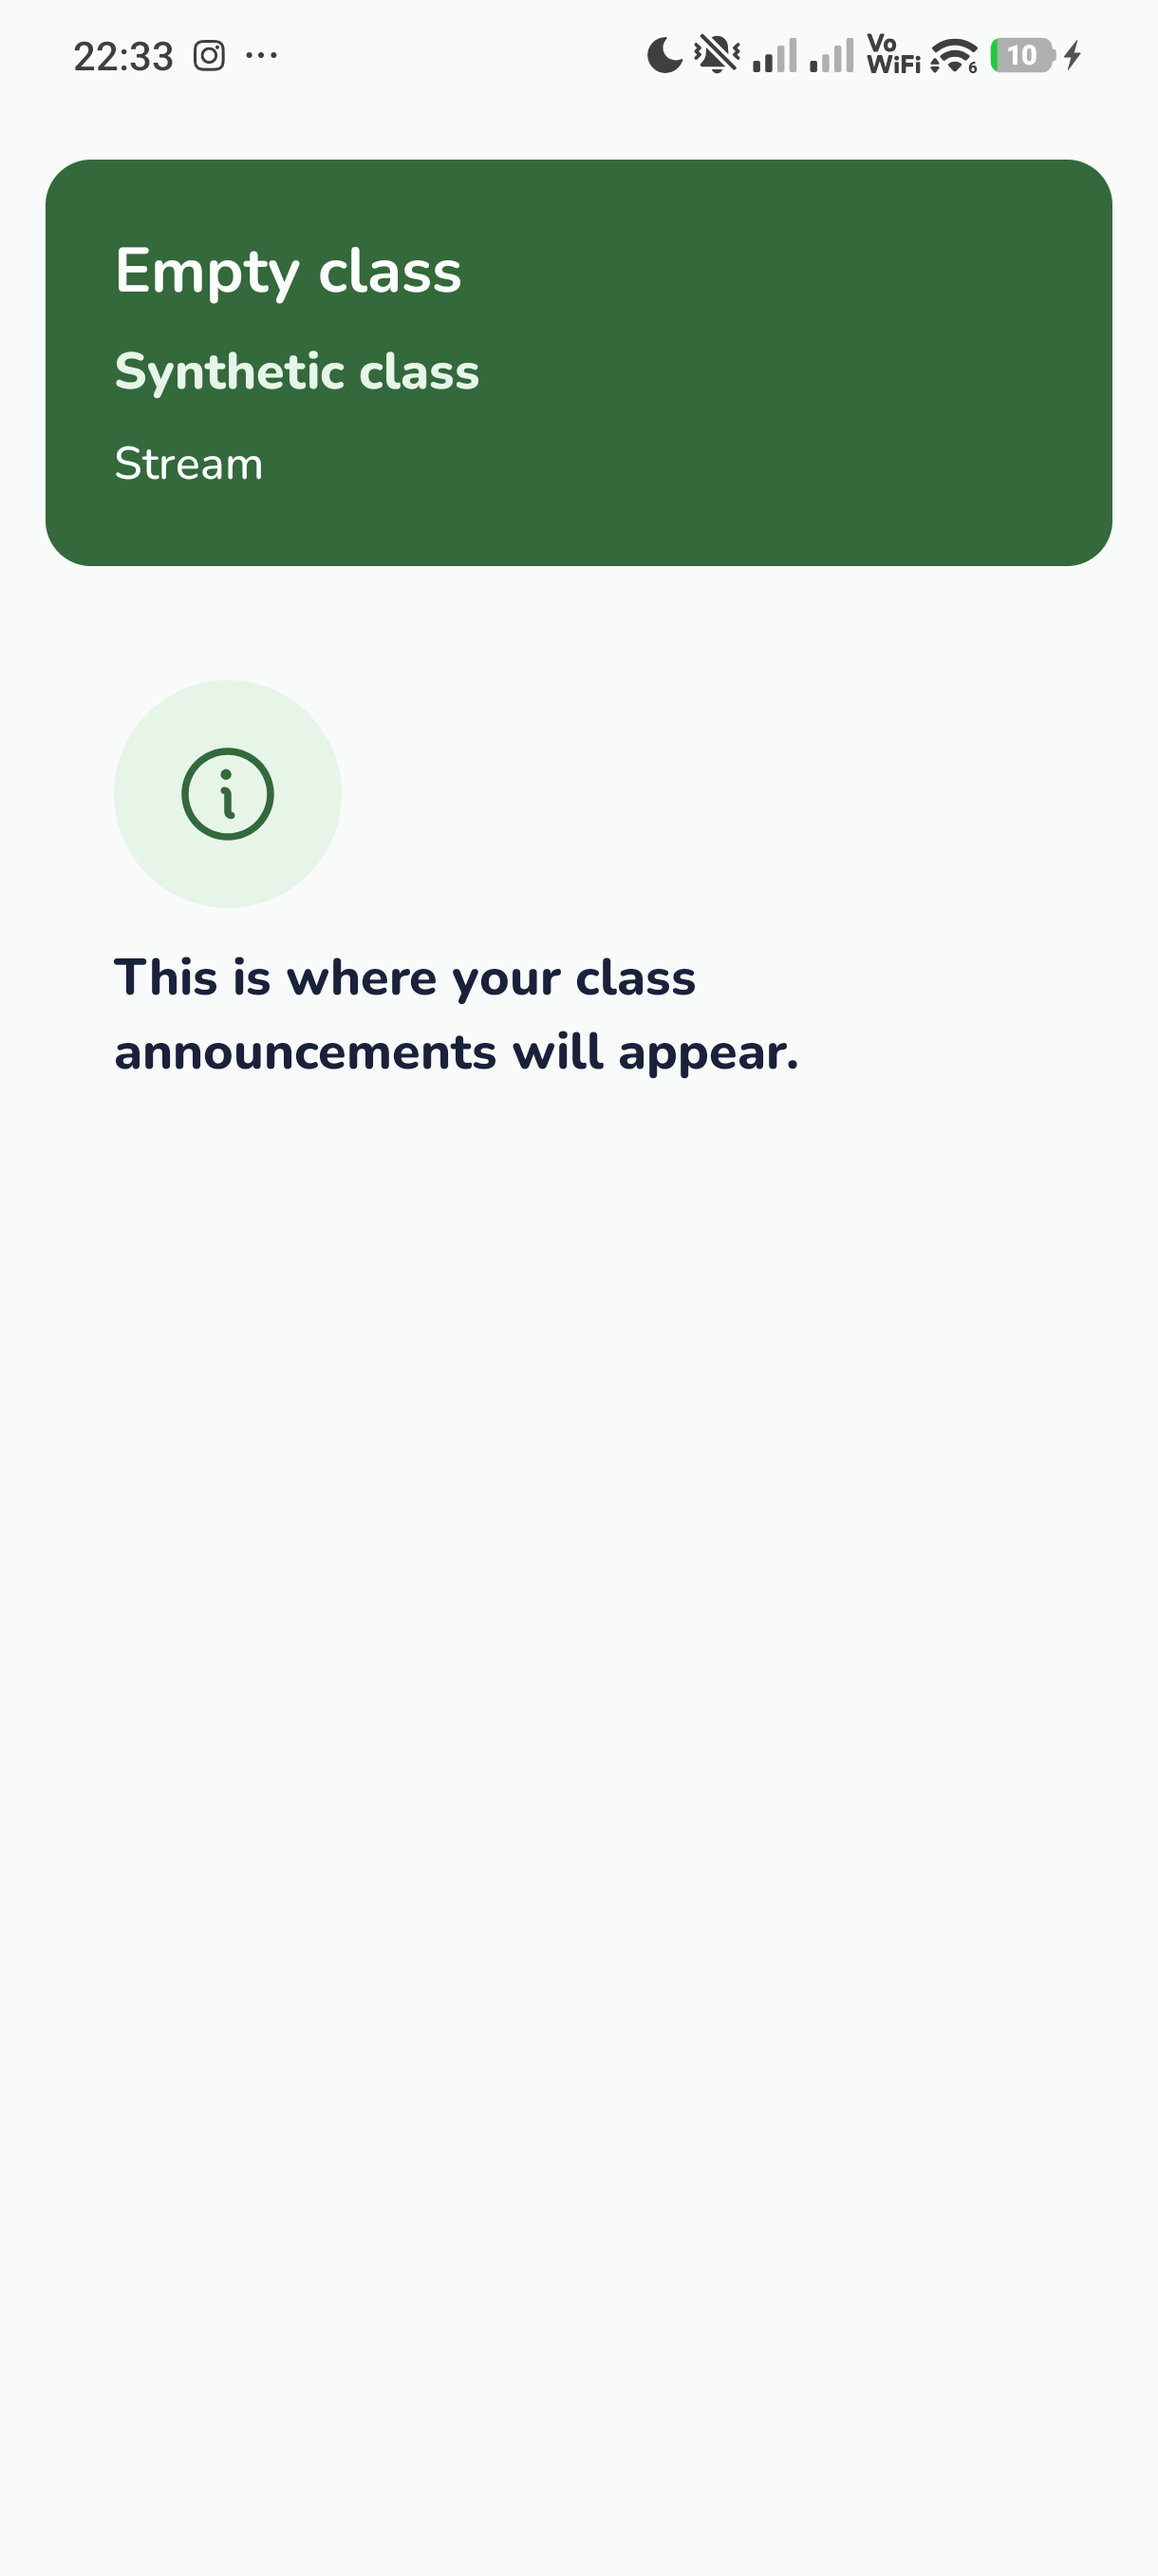
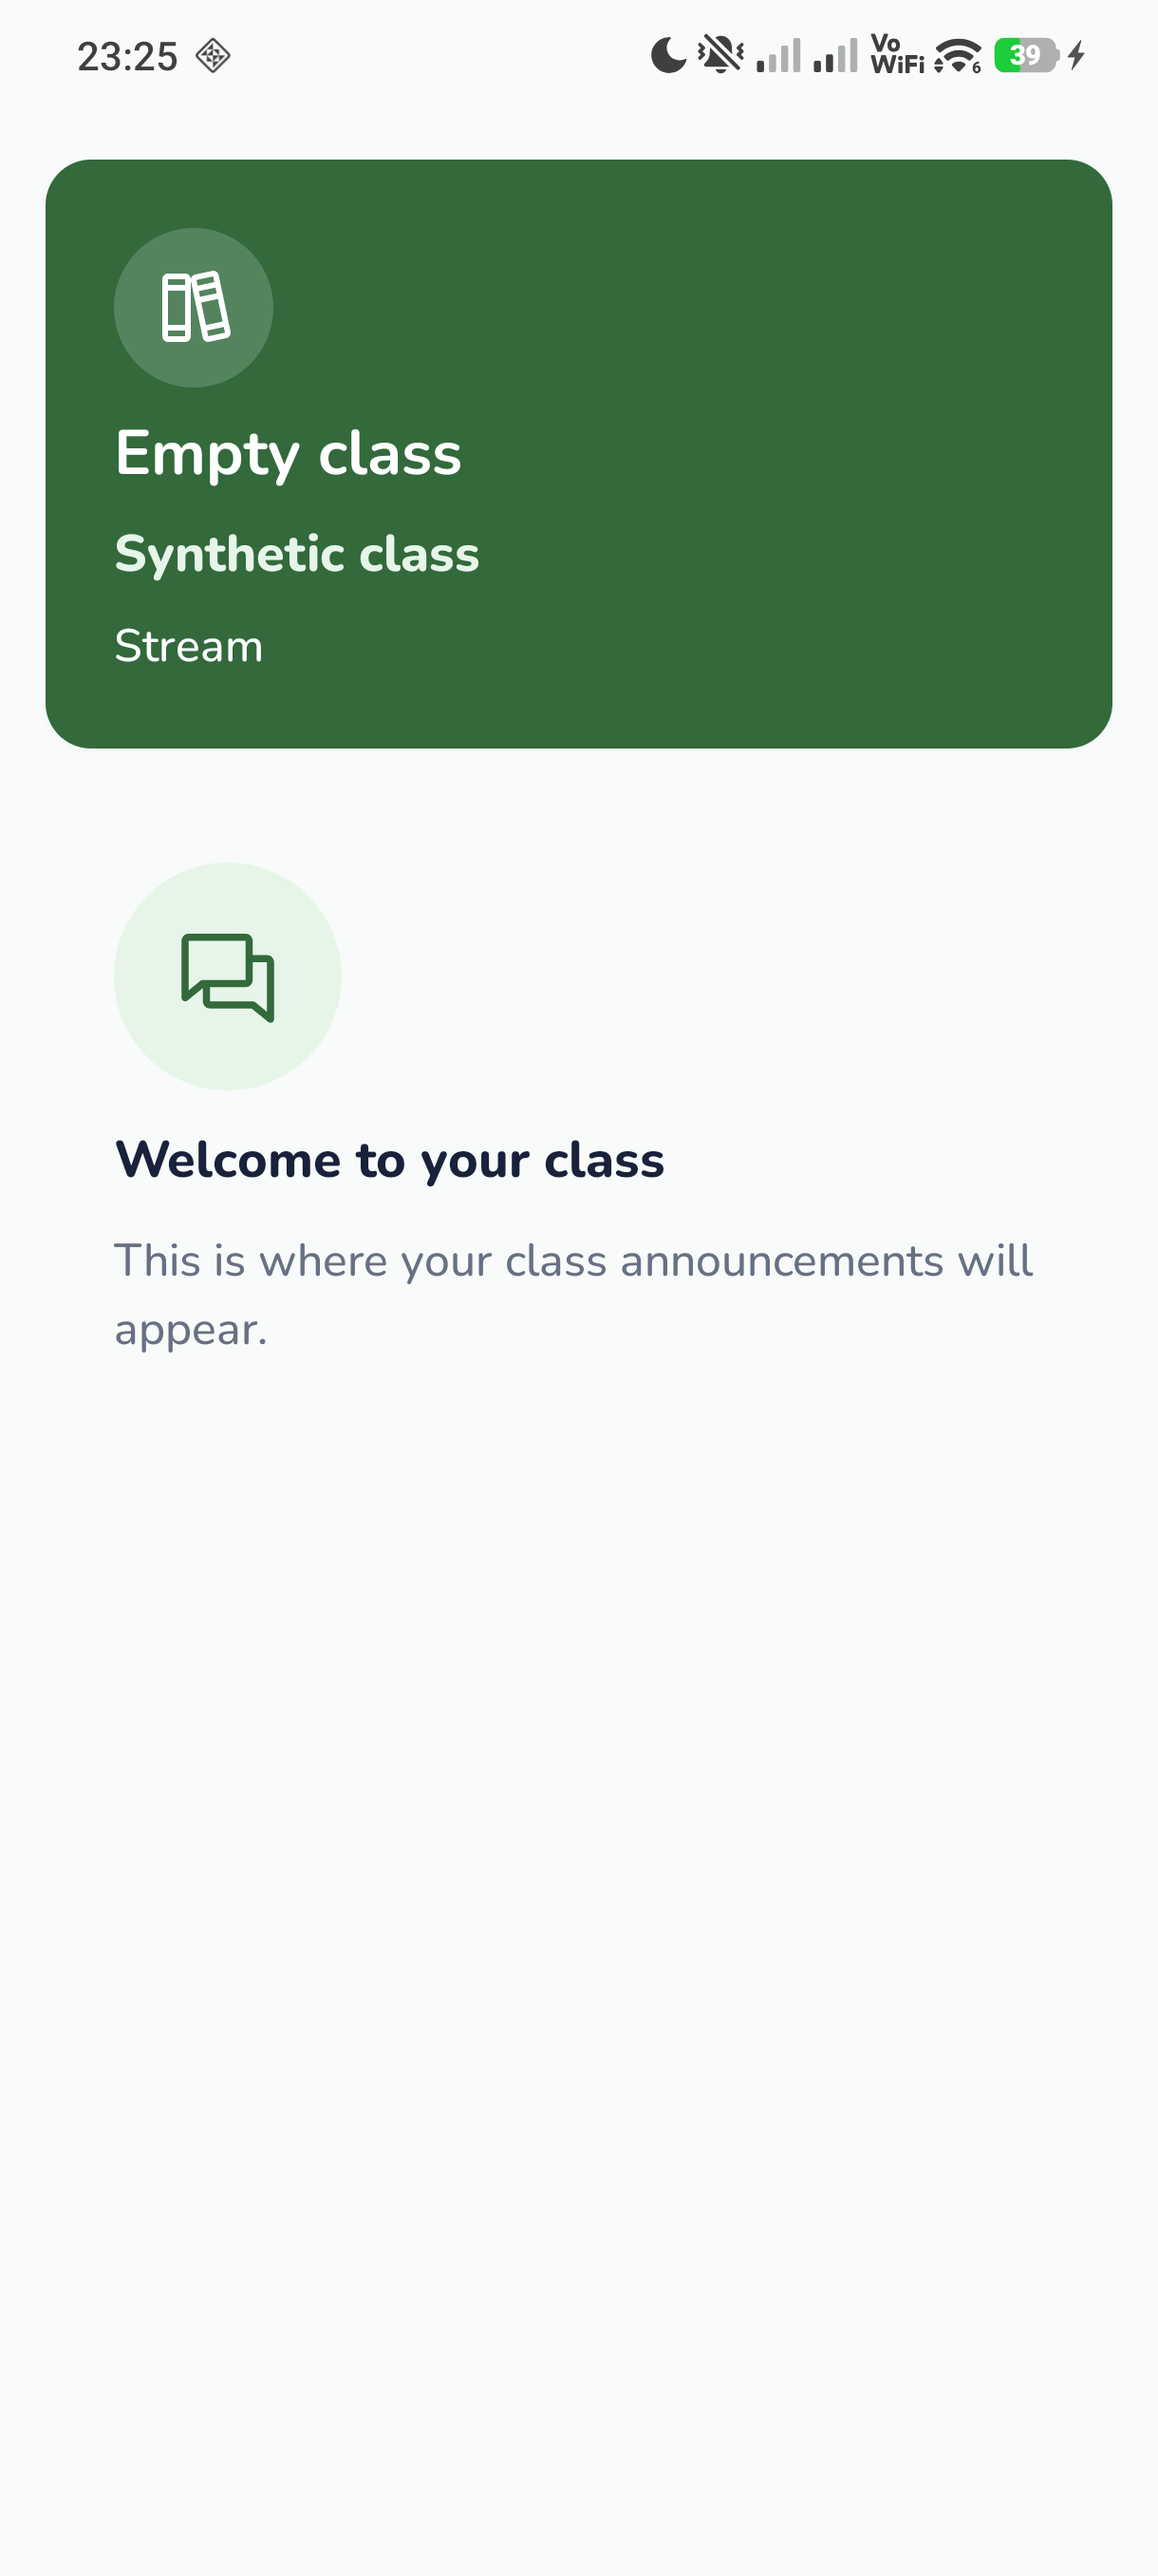
style(mobile): align reading screens with classroom design tokens

diff --git a/mobile/app/src/main/java/org/lara/app/ui/screens/stream/ClassroomLearningHost.kt b/mobile/app/src/main/java/org/lara/app/ui/screens/stream/ClassroomLearningHost.kt
@@ -1,6 +1,7 @@
 package org.lara.app.ui.screens.stream
 
 import androidx.compose.foundation.background
+import androidx.compose.foundation.BorderStroke
 import androidx.compose.foundation.layout.*
 import androidx.compose.foundation.lazy.LazyColumn
 import androidx.compose.foundation.lazy.items
@@ -46,7 +47,10 @@ fun ClassroomLearningHost(container: AppContainer, userId: String, destination: 
         if (fixedClassId == null) {
             var expanded by remember { mutableStateOf(false) }
             Box(Modifier.padding(horizontal = LaraSpacing.S4)) {
-                TextButton(onClick = { expanded = true }, modifier = Modifier.heightIn(min = MinTouchTarget)) {
+                OutlinedButton(onClick = { expanded = true }, modifier = Modifier.heightIn(min = MinTouchTarget),
+                    border = BorderStroke(1.dp, LaraColors.Border), shape = LaraShapes.medium) {
+                    Icon(painterResource(R.drawable.ic_books_regular), null, Modifier.size(20.dp))
+                    Spacer(Modifier.width(LaraSpacing.S2))
                     Text(stringResource(R.string.reading_choose_class, selected.name))
                 }
                 DropdownMenu(expanded = expanded, onDismissRequest = { expanded = false }, containerColor = LaraColors.Surface) {
@@ -84,8 +88,12 @@ private fun ClassFeed(container: AppContainer, userId: String, classroom: Classr
     LazyColumn(Modifier.fillMaxSize(), contentPadding = PaddingValues(LaraSpacing.S4),
         verticalArrangement = Arrangement.spacedBy(LaraSpacing.S4)) {
         item {
-            Surface(color = LaraColors.PrimaryDark, contentColor = LaraColors.Surface, shape = LaraShapes.large) {
+            Surface(modifier = Modifier.laraShadow(), color = LaraColors.PrimaryDark, contentColor = LaraColors.Surface, shape = LaraShapes.large) {
                 Column(Modifier.fillMaxWidth().padding(LaraSpacing.S6), verticalArrangement = Arrangement.spacedBy(LaraSpacing.S2)) {
+                    Surface(color = LaraColors.Surface.copy(alpha = 0.18f), shape = CircleShape) {
+                        Icon(painterResource(R.drawable.ic_books_regular), null,
+                            Modifier.padding(LaraSpacing.S3).size(32.dp), tint = LaraColors.Surface)
+                    }
                     Text(classroom.name, style = MaterialTheme.typography.headlineMedium)
                     Text(classroom.section, color = LaraColors.PrimaryLight, style = MaterialTheme.typography.titleMedium)
                     Text(stringResource(if (destination == ShellDestination.STREAM) R.string.nav_stream else R.string.nav_classwork))
@@ -105,8 +113,15 @@ private fun ClassFeed(container: AppContainer, userId: String, classroom: Classr
             val groups = handouts.groupBy { it.topicId }
             val ordered = topics.map { it.id }.filter { it in groups } + groups.keys.filter { id -> topics.none { it.id == id } }
             ordered.forEach { topicId ->
-                item(key = "topic-${topicId ?: "none"}") { Text(topics.find { it.id == topicId }?.name
-                    ?: stringResource(R.string.reading_handouts), style = MaterialTheme.typography.titleLarge) }
+                item(key = "topic-${topicId ?: "none"}") {
+                    Column(verticalArrangement = Arrangement.spacedBy(LaraSpacing.S3)) {
+                        Text(topics.find { it.id == topicId }?.name ?: stringResource(R.string.reading_handouts),
+                            style = MaterialTheme.typography.headlineMedium, color = LaraColors.PrimaryDark)
+                        Text(stringResource(R.string.reading_handout_count, groups[topicId].orEmpty().size),
+                            style = MaterialTheme.typography.bodyMedium, color = LaraColors.TextSecondary)
+                        HorizontalDivider(thickness = 2.dp, color = LaraColors.Primary)
+                    }
+                }
                 items(groups[topicId].orEmpty(), key = { it.id }) { material -> MaterialRow(material) { opened = material.id } }
             }
         }
@@ -133,7 +148,7 @@ private fun AnnouncementCard(container: AppContainer, post: Announcement, userId
                     Text(stringResource(R.string.reading_class_announcement), style = MaterialTheme.typography.titleMedium)
                     Text(DateFormat.getDateTimeInstance(DateFormat.MEDIUM, DateFormat.SHORT).format(Date(post.createdAt)),
                         style = MaterialTheme.typography.bodyMedium, color = LaraColors.TextSecondary)
-                    Text(stringResource(R.string.reading_saved), style = MaterialTheme.typography.bodyMedium, color = LaraColors.PrimaryDark)
+                    ReadingStatus("SYNCED")
                 }
             }
             Text(post.title, style = MaterialTheme.typography.titleLarge)
@@ -155,18 +170,13 @@ private fun AnnouncementCard(container: AppContainer, post: Announcement, userId
                         author.role == "STUDENT" -> author.name.trim().substringBefore(' ')
                         else -> author.name
                     }
-                    Column(Modifier.fillMaxWidth(), verticalArrangement = Arrangement.spacedBy(LaraSpacing.S2)) {
+                    Column(Modifier.fillMaxWidth().background(LaraColors.Surface, LaraShapes.medium).padding(LaraSpacing.S3),
+                        verticalArrangement = Arrangement.spacedBy(LaraSpacing.S2)) {
                         Text(name, style = MaterialTheme.typography.titleSmall)
                         Text(comment.content)
-                        Row(verticalAlignment = Alignment.CenterVertically, horizontalArrangement = Arrangement.spacedBy(LaraSpacing.S2)) {
-                            Icon(painterResource(if (comment.syncStatus == "REJECTED") R.drawable.ic_warning_circle else R.drawable.ic_info),
-                                null, tint = LaraColors.TextSecondary)
-                            Text(stringResource(when (comment.syncStatus) {
-                                "QUEUED_FOR_SYNC" -> R.string.reading_queued
-                                "REJECTED" -> R.string.reading_rejected
-                                else -> R.string.reading_saved
-                            }), color = LaraColors.TextSecondary, style = MaterialTheme.typography.bodyMedium)
-                        }
+                        ReadingStatus(comment.syncStatus)
+                        if (comment.syncStatus == "REJECTED") Text(stringResource(R.string.reading_rejected),
+                            style = MaterialTheme.typography.bodyMedium, color = LaraColors.TextSecondary)
                     }
                 }
                 if (post.allowComments) {
@@ -186,11 +196,39 @@ private fun AnnouncementCard(container: AppContainer, post: Announcement, userId
 
 @Composable
 private fun MaterialRow(material: Material, open: () -> Unit) {
-    OutlinedButton(onClick = open, modifier = Modifier.fillMaxWidth().heightIn(min = PrimaryTouchTarget), shape = LaraShapes.medium) {
-        Column(Modifier.fillMaxWidth().padding(vertical = LaraSpacing.S2)) {
-            Text(material.title, style = MaterialTheme.typography.titleMedium)
-            Text(stringResource(if (material.localFilePath == null) R.string.reading_open_handout else R.string.reading_saved_handout),
-                style = MaterialTheme.typography.bodyMedium)
+    Surface(onClick = open, modifier = Modifier.fillMaxWidth().heightIn(min = 72.dp).laraShadow(),
+        color = LaraColors.Surface, contentColor = LaraColors.TextPrimary, shape = LaraShapes.large,
+        border = BorderStroke(1.dp, LaraColors.Border)) {
+        Row(Modifier.padding(LaraSpacing.S4), horizontalArrangement = Arrangement.spacedBy(LaraSpacing.S3),
+            verticalAlignment = Alignment.CenterVertically) {
+            Surface(color = LaraColors.InfoLight, shape = LaraShapes.medium) {
+                Icon(painterResource(R.drawable.ic_books_regular), null, Modifier.padding(LaraSpacing.S3).size(24.dp),
+                    tint = LaraColors.InfoDark)
+            }
+            Column(Modifier.weight(1f), verticalArrangement = Arrangement.spacedBy(LaraSpacing.S2)) {
+                Text(material.title, style = MaterialTheme.typography.titleMedium)
+                Text(stringResource(if (material.localFilePath == null) R.string.reading_open_handout else R.string.reading_saved_handout),
+                    style = MaterialTheme.typography.bodyMedium, color = LaraColors.TextSecondary)
+            }
+            if (material.localFilePath != null) Icon(painterResource(R.drawable.ic_check_circle), null,
+                Modifier.size(24.dp), tint = LaraColors.PrimaryDark)
+        }
+    }
+}
+
+@Composable
+private fun ReadingStatus(status: String) {
+    val queued = status == "QUEUED_FOR_SYNC"
+    val rejected = status == "REJECTED"
+    val tone = if (rejected) LaraColors.DangerDark else if (queued) LaraColors.WarningDark else LaraColors.PrimaryDark
+    val fill = if (rejected) LaraColors.DangerLight else if (queued) LaraColors.WarningLight else LaraColors.PrimaryLight
+    Surface(color = fill, contentColor = tone, shape = CircleShape) {
+        Row(Modifier.padding(horizontal = LaraSpacing.S3, vertical = LaraSpacing.S1),
+            horizontalArrangement = Arrangement.spacedBy(LaraSpacing.S2), verticalAlignment = Alignment.CenterVertically) {
+            Icon(painterResource(if (queued || rejected) R.drawable.ic_warning_circle else R.drawable.ic_check_circle),
+                null, Modifier.size(20.dp))
+            Text(stringResource(if (queued) R.string.reading_queued else if (rejected) R.string.reading_not_sent else R.string.reading_saved),
+                style = MaterialTheme.typography.labelLarge)
         }
     }
 }
@@ -200,10 +238,14 @@ internal fun ReadingEmpty(message: Int) {
     Column(Modifier.fillMaxWidth().padding(LaraSpacing.S6), verticalArrangement = Arrangement.spacedBy(LaraSpacing.S3)) {
         Surface(Modifier.size(80.dp), shape = CircleShape, color = LaraColors.PrimaryLight) {
             Box(contentAlignment = Alignment.Center) {
-                Icon(painterResource(R.drawable.ic_info), null, Modifier.size(40.dp), tint = LaraColors.PrimaryDark)
+                Icon(painterResource(if (message == R.string.reading_handouts_empty) R.drawable.ic_books_regular else R.drawable.ic_chats_regular),
+                    null, Modifier.size(40.dp), tint = LaraColors.PrimaryDark)
             }
         }
-        Text(stringResource(message), style = MaterialTheme.typography.titleMedium)
+        Text(stringResource(if (message == R.string.reading_handouts_empty) R.string.reading_handouts_empty_title
+            else if (message == R.string.reading_stream_empty) R.string.reading_stream_empty_title else R.string.reading_classes_empty_title),
+            style = MaterialTheme.typography.titleMedium)
+        Text(stringResource(message), style = MaterialTheme.typography.bodyLarge, color = LaraColors.TextSecondary)
     }
 }
 

diff --git a/mobile/app/src/androidTest/java/org/lara/app/reading/ReadingScreenDeviceTest.kt b/mobile/app/src/androidTest/java/org/lara/app/reading/ReadingScreenDeviceTest.kt
@@ -205,7 +205,7 @@ class ReadingScreenDeviceTest {
                 show { ClassroomLearningHost(active, owner, ShellDestination.STREAM, "fixture-empty") }
                 waitFor("This is where your class announcements will appear."); shot("empty-stream")
                 show { ClassroomLearningHost(active, owner, ShellDestination.CLASSWORK, "fixture-empty") }
-                waitFor("No handouts yet. Your teacher’s lesson files will appear here."); shot("empty-classwork")
+                waitFor(context.getString(org.lara.app.R.string.reading_handouts_empty_title)); shot("empty-classwork")
                 show { ReadingSkeleton() }; waitFor("Loading saved classroom content…"); shot("loading")
             }
         } finally { TokenStore(context).clear(); db.close() }

diff --git a/mobile/docs/evidence/25/README.md b/mobile/docs/evidence/25/README.md
@@ -43,6 +43,12 @@ Temporary battery reporting, USB stay-awake and forwarding routes were restored.
 
 Merged staging `ceac7b4` without conflicts; the PR diff remains mobile-only. `staging-regression.txt` records `test lint assembleDebug assembleDebugAndroidTest`: BUILD SUCCESSFUL in 5m45s, 146 tests per variant, zero failures/errors/skips. Lint has zero errors. `staging-shared-checks.txt` records 67 shared tests passed; offline invariants passed. No mobile production source changed after the earlier physical reader scenarios.
 
+## Design refinement — 6 November 2026
+
+Compared Stream/Classwork with design-system sections 5.5 and 5.10–5.12. Added class-banner icon/elevation, topic rules/counts, blue handout tiles on white bordered cards, saved-file checks, tonal status pills and separate empty-state headings/help. Stream posts retain their specified borderless subtle surface. Only mobile files changed; existing tokens/assets and navigation/data behavior are retained.
+
+`ui-refinement-checks.txt`: test/lint BUILD SUCCESSFUL in 2m9s, 146 tests each Debug/Release, zero failures/errors/skips; lint zero errors. The first attempt failed because the Settings mock on 38080 was absent; after starting it, all tests passed without disabling any. Invariants passed. `ui-refinement-device.txt`: OK (2 tests), 20.017s, on Xiaomi 2311DRK48G. Stream, Classwork, comments, empty and 200% screenshots above were refreshed from that final isolated-app run and visually inspected. Reader functionality passed again. Earlier real-Hub screenshots document the prior cosmetic build, not the new styling. USB stay-awake was restored to 0 and the original app remains untouched.
+
 ![Stream](stream.png)
 ![PDF at 200 percent text](pdf-200.png)
 ![Offline queued comment](live-offline-queued.png)

diff --git a/mobile/docs/stream-reader.md b/mobile/docs/stream-reader.md
@@ -6,6 +6,10 @@ This branch starts at `origin/staging` commit `7444312`, including merged #231. 
 
 Existing `StreamDao`, `ClassworkDao`, Room repositories, `DeltaSyncWorker`, account-scoped databases, learner enrollment navigation and teacher role shell are reused. UI is English only under #223/#224; old bilingual issue wording is superseded.
 
+## Design-system review
+
+The first reading UI used plain text handout buttons and a single text block for empty states. The refinement follows design-system sections 5.5, 5.10–5.12: class banners gain a bundled subject icon and navy-tinted elevation; handouts use white bordered cards with blue type tiles and a saved-file check; topic headings have a green rule and item count; saved/queued/rejected states use an icon and a tonal pill. Stream posts retain the specified subtle fill and borderless shape, with white inset comment surfaces. Empty states separate their invitation heading from secondary explanatory text. Existing palettes, resource strings, large-text wrapping and 52/56dp action targets are retained; no gradients, dependencies or new product actions.
+
 ## Scope and data flow
 
 `ui/screens/stream/ClassroomLearningHost.kt` supplies Stream and Classwork content to both existing role graphs. Learners enter an approved class through the existing class list. Teachers select from their saved classes. Classroom-style banners, post cards, flat comments and topic-grouped handouts use existing L.A.R.A. tokens, Nunito and bundled icons. Other feature destinations remain owned by their later issues.
